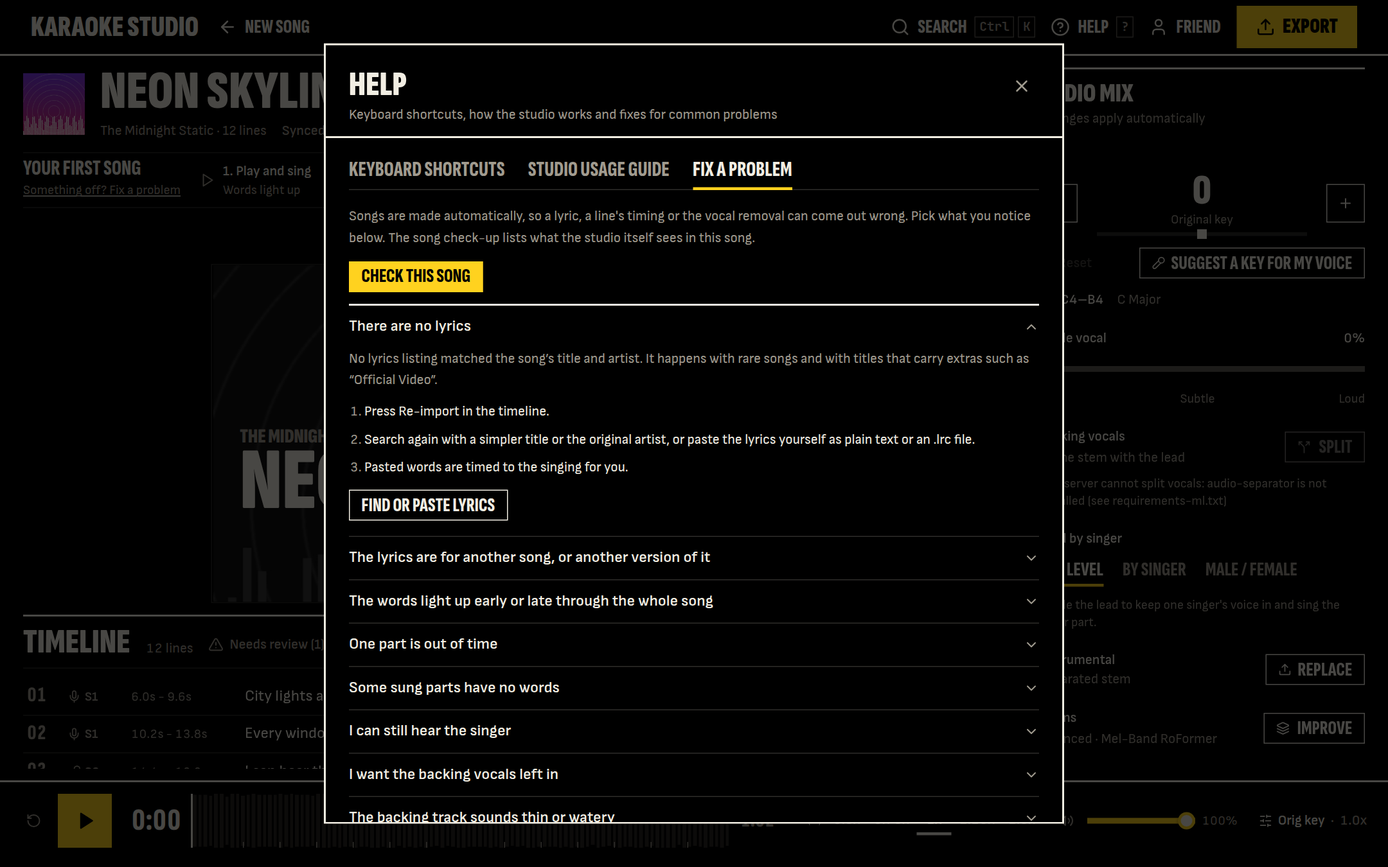
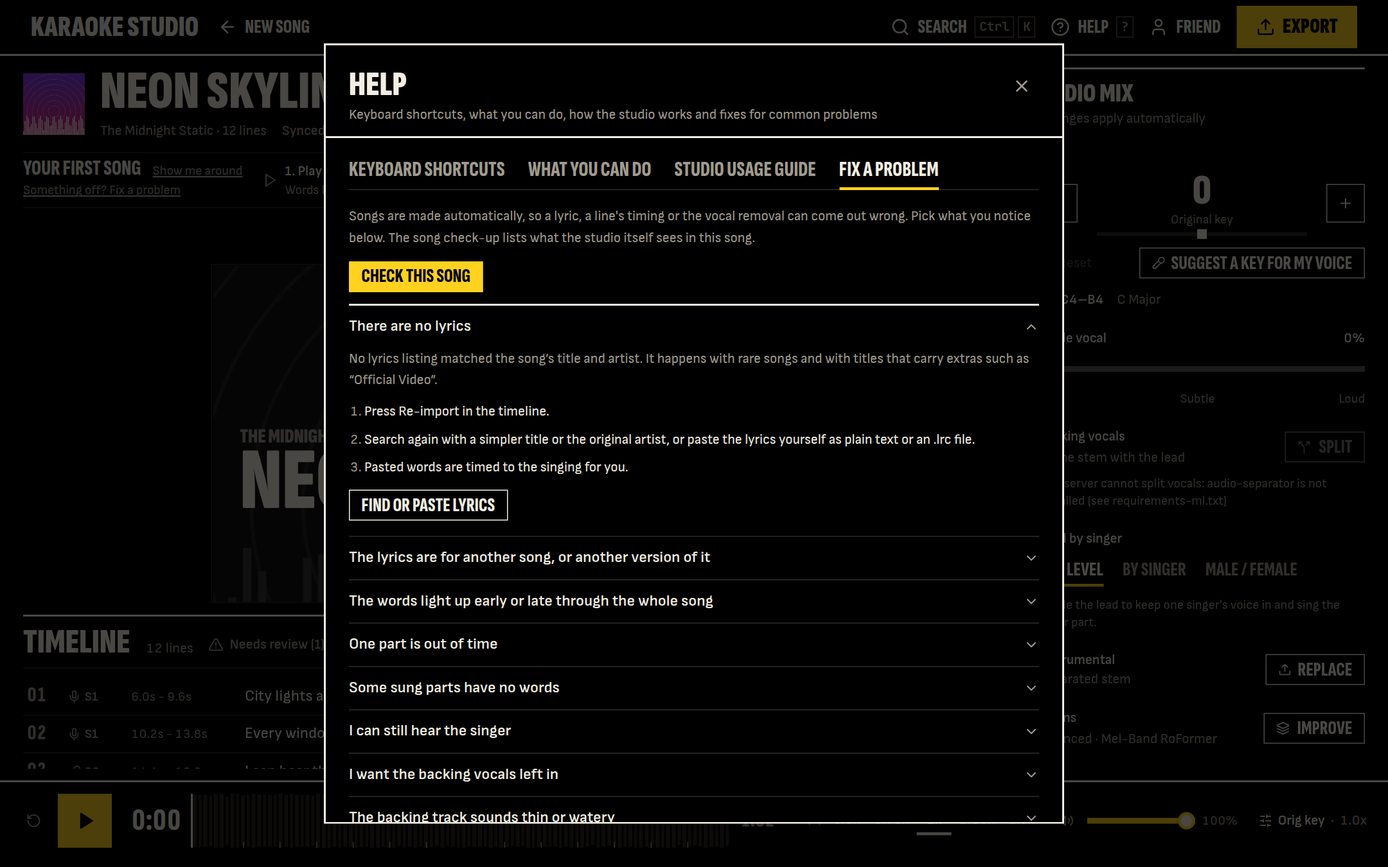
docs: describe the tour and the what-you-can-do list
The README's first-song walkthrough now says how to be shown around and
where the list of easy-to-miss features is, with a capture of each; the
first-song and Help captures are retaken, since the card has a new button
and Help a fourth tab. The architecture notes describe how the guide finds
a control, prepares a stop and draws the pointer, and when it may be a
dialog. The project guide says what to keep in step when a control with a
guide name changes.

Changed region(s): [[0.3722, 0.1867, 0.6824, 0.2178], [0.3412, 0.1244, 0.6204, 0.1556], [0.1241, 0.1867, 0.2481, 0.2489]]

diff --git a/docs/ARCHITECTURE.md b/docs/ARCHITECTURE.md
@@ -345,7 +345,8 @@ Words are spelled for the MMS alphabet by `lyric_tokenize.normalize_for_mms` (nu
 | `useInstallPrompt` + `utils/installPrompt` | install-as-app state: `beforeinstallprompt` is captured from `main.tsx` before React mounts and replayed by the Install button; iOS (including iPadOS) gets `InstallAppDialog` with the Share → Add to Home Screen steps; nothing is offered when running installed (`display-mode: standalone` or `navigator.standalone`); the header button can be hidden for good (`karaoke_install_button_hidden`), the palette entry stays |
 | `useUpdatePrompt` | offers a Reload toast once the server serves a newer build: when the tab becomes visible and every 5 minutes, it compares the hashed entry script in `/` with the one this page loaded |
 | `useFirstSongGuide` | whether the first-song card shows: until this browser hides it (`karaoke_first_song_hint`), skipped where storage is unavailable; Help and the palette can bring it back |
-| `useGuideActions` | carries out a `GuideAction` (`utils/guideActions`) chosen in the song check-up, the first-song card or Help: closes that dialog, switches the phone tab, then opens the tool through its palette command (`runCommand`) or the app's own handler |
+| `useGuideActions` | carries out a `GuideAction` (`utils/guideActions`) chosen in the song check-up, the first-song card or Help: closes that dialog, switches the phone tab, then opens the tool through its palette command (`runCommand`) or the app's own handler; `tour` starts the studio tour |
+| `useGuideCommands` | the guide in the palette: "Show me around" (the tour of the screen that is up), "What you can do" (Help's tab) and the `features` source, which lists "Show me: …" entries for a query and imports `utils/features` when first searched |
 | `useServerVersion` | the version the server runs (`version` from `GET /api/health`, i.e. `git describe`), fetched when the Help dialog first opens and shown in its footer |
 | `useUpdateDrainNotice` | while `GET /api/health` reports `draining` (checked on load, when the tab becomes visible and every minute), a persistent warning toast says new songs, renders and re-made stems are paused and how many jobs the update waits for |
 | `useServerUpdatePrompt` | where the server reports `self_update`, offers an Update now toast when GitHub's `main` is ahead of the running build (`GET /api/health?check_remote=1` on load, when the tab becomes visible at most every 2 minutes, and every 10 minutes); the button posts `{"action": "update"}` to `/api/system/update`, and `useUpdatePrompt` then offers the reload |
@@ -356,7 +357,7 @@ Words are spelled for the MMS alphabet by `lyric_tokenize.normalize_for_mms` (nu
 
 ### 3.4 Command palette
 
-`commandPalette/` holds a registry: components register commands (`useRegisterCommands(scope, commands)`) and searchable sources (songs, lyric lines) while mounted, and the palette reads them when it opens. <kbd>Ctrl</kbd>/<kbd>⌘</kbd>+<kbd>K</kbd> toggles it unless another dialog or the sign-in gate is open. Ranking puts prefix matches first, then word starts, substrings and loose subsequences; results are capped at 50 and recent commands are kept in `karaoke_palette_recent`. Studio commands cover playback, stage, mix (including "Improve stem separation…"), themes, navigation, song actions, and the timeline's lyric tools (save, undo, tap-to-sync, re-align the selected line or all lines, cancel a re-alignment). The context's `runCommand(id)` runs the command a mounted component offers under that id and returns whether there was one; guidance uses it to open the lyric tools, whose dialogs live inside the timeline editor (`lyrics-replace`, `lyrics-offset`, `lyrics-duet`, `lyrics-realign-all`, `lyrics-review-show`, `stems-improve`). The review filter has one id per direction (`lyrics-review-show`, `lyrics-review-all`) so running it by id always means the same thing.
+`commandPalette/` holds a registry: components register commands (`useRegisterCommands(scope, commands)`) and searchable sources (songs, lyric lines) while mounted, and the palette reads them when it opens. <kbd>Ctrl</kbd>/<kbd>⌘</kbd>+<kbd>K</kbd> toggles it unless another dialog or the sign-in gate is open. Ranking puts prefix matches first, then word starts, substrings and loose subsequences; results are capped at 50 and recent commands are kept in `karaoke_palette_recent`. Studio commands cover playback, stage, mix (including "Improve stem separation…"), themes, navigation, song actions, and the timeline's lyric tools (save, undo, tap-to-sync, re-align the selected line or all lines, cancel a re-alignment). The context's `runCommand(id)` runs the command a mounted component offers under that id and returns whether there was one; guidance uses it to open the lyric tools, whose dialogs live inside the timeline editor (`lyrics-replace`, `lyrics-offset`, `lyrics-duet`, `lyrics-realign-all`, `lyrics-review-show`, `stems-improve`). The review filter has one id per direction (`lyrics-review-show`, `lyrics-review-all`) so running it by id always means the same thing. The guide adds `guide-tour` and `help-features`, and a `features` source beside `songs` and `lyric-lines` (sources list nothing until a query is typed).
 
 ### 3.5 Stage
 
@@ -366,16 +367,17 @@ Words are spelled for the MMS alphabet by `lyric_tokenize.normalize_for_mms` (nu
 
 - **Boot shell.** `index.html` carries a small inline stylesheet and, inside `#root`, the top bar and a quiet outline of the page, so something paints as soon as the HTML and stylesheet arrive; React replaces it on mount. The shell's brand name is set in the display face, which starts that font file downloading while the script is still loading.
 - **Fonts** are self-hosted, in three stylesheets written by `scripts/generate-fonts-css.mjs` (`npm run fonts`) from the `@fontsource` packages, whose own CSS names the variable families "Sofia Sans Variable" while the stacks say "Sofia Sans": `src/fonts.css` (the interface's faces, which Marquee uses too; loaded with the first screen), `src/stageFonts.css` (the other looks' faces, imported by `stage/StageFrame` and so loaded with the studio) and `src/stageFonts.ktv.css` (the 118 Japanese slices of KTV's face, imported on demand when that look is on). Vite hashes the files into `/assets`, so they are cached for a year. Each file is fetched only when text in its family and unicode range is shown. Each stage face must be the cut the backend bundles, whose widths both sides measure with. `selfHostedFonts.test.ts` checks that the declared faces match the ones the app and the looks name and that the page loads nothing from another site.
-- **Deferred screens** (`deferredScreens.ts`). The studio workspace, transport dock, export, stem and song check-up dialogs (one chunk, `components/studio/studioBundle.ts`), the help dialog and the command palette are split out of the first-load script. `main.tsx` fetches them once the page is idle; a screen whose chunk has arrived renders synchronously like a normal import, and one still on its way suspends (`StudioSkeleton` for the studio, nothing for dialogs). A failed fetch is retried once; a screen shown again a second or more after its chunk failed fetches it again, so a dropped connection does not leave Help or the palette closed until a reload. If the studio's chunk is still missing (an update replaced the build while the page was open), opening a song reloads the page once (`reloadForMissingChunk`, at most once a minute, recorded in `sessionStorage`); the help and palette chunks never reload, since they open over a studio that may hold unsaved edits. Tests that assert on those screens synchronously call `loadDeferredScreens()` in a `beforeAll`.
+- **Deferred screens** (`deferredScreens.ts`). The studio workspace, transport dock, export, stem and song check-up dialogs (one chunk, `components/studio/studioBundle.ts`), the help dialog, the command palette and the guided tour (`components/guide/GuideTour`) are split out of the first-load script. `main.tsx` fetches them once the page is idle; a screen whose chunk has arrived renders synchronously like a normal import, and one still on its way suspends (`StudioSkeleton` for the studio, nothing for dialogs). A failed fetch is retried once; a screen shown again a second or more after its chunk failed fetches it again, so a dropped connection does not leave Help or the palette closed until a reload. If the studio's chunk is still missing (an update replaced the build while the page was open), opening a song reloads the page once (`reloadForMissingChunk`, at most once a minute, recorded in `sessionStorage`); the help and palette chunks never reload, since they open over a studio that may hold unsaved edits. Tests that assert on those screens synchronously call `loadDeferredScreens()` in a `beforeAll`.
 - **Home screen** (`TrackSearch`). The intake box starts a link to a supported site (a download or a lookup site) at once (`utils/mediaLinks.linkSite`, the backend's host rule over the same `media_sites.json`, both suites running its `host_cases`) and answers a link to any other site with the sites that work (`UNSUPPORTED_LINK_MESSAGE`). Anything else is search words (`useSongSearch.isSearchable`: two characters or more, one in a script outside ASCII): `useSongSearch` sends them to `POST /api/search/songs` 350 ms after the typing stops, or at once on Enter or **Search**, with an `AbortController` per search so only the latest words' answer is shown, and never repeats a search for the same words. `track-search/SongSearchResults` lists the songs under the box: artwork that plays the song's 30-second preview (`useSongPreview`: one clip at a time from an `Audio` object that is never put in the page, since the transport owns the only `<audio>` element; a clip that will not play can be tried again, and being stopped mid-load is not a failure), title, artist, album, year and length (the length is never truncated: it tells versions apart), badges for what kind of recording it is (`versions`) and for explicit lyrics, and **Create Karaoke**, which starts the result's `url` through the same `onSelectTrack` a pasted link uses. A result that carries `project_id` is already in the library: it shows "In your library" or "Being made" and **Open**, which hands the app a card-sized entry to fetch in full. Five songs are listed and the rest on "Show more"; a status line (`role="status"`) says how many songs were found and, when the words were respelled, for which spelling. Under the songs, **Search YouTube uploads** lists `POST /api/search` results for the (respelled) words, for another recording or a song the catalogs do not have; a submit that finds no song searches them by itself. When a response has an empty `sources` (no catalog configured or reachable), typing stops searching, the status says to press Search, and Search lists the YouTube uploads as the results. Arrow keys move from the box into the results and between them, Escape returns to the box and, there, dismisses the results; dismissed results stay dismissed until the words change. The page opens on `track-search/SungHeadline`: the headline is swept from bone to yellow once per page load, word by word (a CSS animation; under reduced motion it stands still, already yellow), on two lines for a first visit and one compact line for a returning visitor. Visitors with no songs of their own also get three "how it works" steps, and the library opens on the Community tab when it has songs and theirs is empty. `karaoke_has_songs` in localStorage remembers a returning visitor so their page does not jump, and hides the pitch on phones for them.
 - **Setlist** (`track-search/ProjectLibrary`) loads `GET /api/projects?summary=1` and lists the songs as numbered rows. A song's number is the order it was made in, so sorting and filtering do not renumber, and a ready song shows only its length; one being made, failed, cancelled or an album says so. Opening a row fetches the whole song (`App.openLibraryProject`), with a spinner on the row meanwhile; the command palette's lyric search still loads the full list when it opens.
 - **Processing.** `ProcessingTips` shows one tip at a time while a song is processed (auto-advancing until the viewer presses Next tip), and `ProcessingExpectations` says under it what to expect: how long, that the page can be left, and that an automatic result sometimes needs a fix. The failed screen explains `project.error` in plain words (`utils/processingErrors.explainProcessingError`: the first matching rule of a short list, else a general answer) and keeps the raw message under "Technical details". **Try again** (and **Start again** on the cancelled screen) posts the song's link (`url`, kept from the start; `utils/processingErrors.retryInput`), else its `track_id` for songs from before links were kept, to `/api/process`, which replaces a failed song; a song from an upload (`local_` id) asks for the file again instead, and a song picked from an album (`album_track`) is started again through `POST …/album/songs`.
 - **Whole albums** (`album/AlbumTrackPicker`, `album/AlbumTrackRow`, `hooks/useAlbumListing`, `utils/albumTracks`). `App` shows the picker for a project at status `album`, in place of the processing screen. It fetches `GET …/album`, says where the song list came from, and lists the songs with their place in the album: a checkbox for each song not made yet, **Open** for a song made or being made, a name field for a picked song with a stand-in name (and **Rename** for any picked song), the album artist as an editable field, **Pick all**, **Make N songs** (`useTrackIntake.handleAlbumSongs`, which opens the first song's progress and says the others are in the library) and **Make it all one song** when `whole_allowed` (`handleAlbumWhole`). The library card of an album carries an **Album** badge and opens the picker again.
-- **Guidance.** Three pieces tell a new user what to do and what to fix, all driven by `GuideAction`s that `useGuideActions` carries out:
-  - *First-song card* (`studio/FirstSongCard`): four steps above the stage (play, check lyrics, set your key, make a video), each a button. A plain `<section>`, never a dialog, so shortcuts keep working. Shown until hidden (`useFirstSongGuide`).
+- **Guidance.** The first four pieces below tell a new user what to do and what to fix, driven by `GuideAction`s that `useGuideActions` carries out; the last, the guide, points at the screen itself:
+  - *First-song card* (`studio/FirstSongCard`): four steps above the stage (play, check lyrics, set your key, make a video), each a button, and "Show me around", which starts the tour. A plain `<section>`, never a dialog, so shortcuts keep working. Shown until hidden (`useFirstSongGuide`).
   - *Song check-up* (`utils/songCheckup` + `studio/SongCheckupDialog`): rows of `fix`, `tip` or `ok` read from what the project already stores: no lines or `lyric_source: "none"`, the timeline's review checks (`collectLineIssues`), `sync_report.mean_confidence` under the low threshold, `uncoveredVocals`, a DSP `fallback_reason`, `separation.fallback_reason` and `requested`, Fast stems when a better preset is available (`useCapabilities`), and `sync_job` / `separation_job` in `error`. `checkupFixCount` (the `fix` rows) is the number in the header and on the card.
-  - *Help* (`HelpModal`): the usage guide opens with the first-song steps, and the "Fix a problem" tab lists `utils/troubleshooting.PROBLEMS` (symptom, cause, steps, actions), with buttons only while a finished song is open. `App` keeps the tab to open (`helpTab`): guidance opens "Fix a problem", the <kbd>?</kbd> key and the header button open the shortcuts. The README's "When results are off" table repeats the list by hand.
+  - *Help* (`HelpModal`): "What you can do" (`help/HelpFeatures`) lists `utils/features.FEATURES` by group, the usage guide opens with the first-song steps, and the "Fix a problem" tab lists `utils/troubleshooting.PROBLEMS` (symptom, cause, steps, actions), with buttons only while a finished song is open. `App` keeps the tab to open (`helpTab`): guidance opens "Fix a problem", the <kbd>?</kbd> key and the header button open the shortcuts. The README's "When results are off" table repeats the list by hand.
   - *Export* (`ExportModal`): before a song's first render, `export/ExportNextSteps` lists render, download and upload; while one runs, a line says the dialog can be closed. After a render, `export/ExportYouTubeKit` ("Upload to YouTube", directly under the video) is five steps around the server's `youtube_package`: start the upload, paste the title, description and tags (copy buttons), and what to check before publishing. It reads whether the description has chapters from its timestamp lines, and says when a 9:16 video becomes a Short (`SHORTS_MAX_SECONDS`, from the rendered format and `project.duration`). Nothing is uploaded from the app.
+  - *The guide* (`components/guide`, a deferred chunk): a tour of the studio (11 stops, one fewer on desktop, where the phone's tab bar is not shown) or of the home screen (5), and "Show me" for one feature. `App` holds only what was asked for (`guide: GuideRequest | null`, a tour or a feature id); `GuideTour` does the rest. For each stop it selects the phone tab the control is on, presses the button that uncovers a collapsed control (`open`, the transport's speed and volume), finds the control by its `data-guide` name (`utils/guideAnchors`: the copy that is shown, and of several lyric lines the one in view), scrolls it clear of the bars that are held over the page at that moment, and measures the part of it that can be seen. `GuidePointer` draws four flat rectangles around that box, a 2 px ring 4 px off it, and a callout placed by `utils/guidePlacement` (under the control, else over or beside it; a band across the edge away from the control below 640 px). A stop whose control is not on the screen is passed over. The words are data: `utils/guideStops` (stops with a title, a body and, for toolbars of icon-only buttons, a legend) and `utils/features` (the features of Help's "What you can do" tab, each with the sentence said while its control is pointed at). A tour is a dialog (`aria-modal`, focus trap, Escape, arrow keys; the control under the ring cannot be pressed; the page does not scroll; a playing song is paused first, since Space is off) and so is only ever opened when asked for: "Show me around" on the first-song card and under "How it works", Help's "Start the tour", the palette. One pointed-at control is a `role="group"` note instead: the control is pressed through the hole, which ends the pointing, as do "Got it", Escape, a press on the dim, focus moving on, or the control scrolling away; the shortcuts stay on. Help lists a feature's "Show me" only on the screen it belongs to, and a control this song or server does not render (vocal splits, the song loop, "Needs review" with nothing to review) says why in place of the button. `tests/guide/guideAnchorsInApp.test.tsx` renders the studio and the home screen and fails when a stop or feature names a control that is not there.
   First-run UI renders in every App-level test, because the test setup clears storage: its controls need names no other studio control has (`studioAccessibleNameUniqueness.test.tsx`), and it must not use `role="dialog"`, which would turn the keyboard shortcuts off (`isModalActive`).
 
 ### 3.7 Installable app

diff --git a/CLAUDE.md b/CLAUDE.md
@@ -60,7 +60,7 @@ modal deploy gpu/modal_app.py           # cloud workers, see below
   6b. Vocal parts: `POST …/vocal-split` (`backend/vocal_split.py`) runs one more RoFormer model over a vocal stem (`separator.split_vocals`, no fallback engine) and keeps its two outputs beside the stems (`services/vocal_parts.py`): `lead_backing` gives `vocals_lead.wav` + `vocals_backing.wav`, `male_female` splits the lead (else the whole vocals) into `vocals_male.wav` + `vocals_female.wav`. Which parts exist is read from the files (`vocal_parts.current_parts`: both present and no older than their source), never from the project; `vocal_splits` on the project is a copy for the studio. Replacing `vocals.wav` deletes the parts. The song's `vocal_levels` (sent with `/mix` and `/render`) say which vocals a mix keeps: `backing`, and the lead `by: "lines"` (`singer1`/`singer2`/`both`, applied during those singers' lyric lines) or `by: "voices"` (`male`/`female`). `services/vocal_mix.plan_mix` decides; `master_audio.make_master_mix` is the one way to make a mix after the intake's first (it calls `audio_mixer.mix_and_shift` unchanged, with a temporary "kept vocals" file as the vocal input when the levels need one, and names that mix `…_<8 hex>.wav`). Lines saved or re-timed under a mix that follows them set `master_stale`, which the studio answers with a new `/mix`.
   6c. Song loop (only with `SONG_LOOP_REMOTE=modal`): `POST …/song-loop` (`backend/song_loop.py`, `song_loop_job`) sends the lyric lines, or a typed scene (`prompt`), to the Modal function `song_loop`, which runs `workers/song_loop_worker.py`: a language model writes one scene from the lyrics, a video model (the request's `model`, else `SONG_LOOP_MODEL`: `wan22`, shown as Best, or `ltx`, Fast; `SONG_LOOP_MODELS` limits which the studio offers, and their names, minutes and notes are data in the worker's `MODELS`) draws a few seconds of it, and FFmpeg crossfades the clip into its own start (`loop_filter`). The job checks the result with ffprobe and keeps it as `output/<id>_loop.mp4`, recorded as `song_loop` on the project (`services/song_loops.py`); a failed run keeps the old loop. It reads nothing the other jobs change, so `background_jobs.conflict_reason` does not know it: it runs beside them, one loop at a time across the server (`SONG_LOOP_SEMAPHORE`). The stage background style `loop` shows it (`StudioWorkspace` passes it to the stage as an uploaded video; a song without one shows cover art), and a render with `background_style: "loop"` gets the file as its custom background in `render_worker`. The control is `components/look/SongLoopControl`, hidden where the server has no `SONG_LOOP_REMOTE` and the song has no loop (`utils/songLoop.showsSongLoop`).
   7. Export: `/render` → `render_worker` mixes at final quality (Rubber Band), writes the `.ass` file in the song's look (`ass_generator.py` → `ass_style.resolve_look_style` → `ass_look.generate_look_ass`) and renders with FFmpeg + libass (`video_renderer.py`, bundled stage fonts in `backend/assets/fonts`), locally or on Modal. LRC, ASS, chord sheet, stems and the YouTube kit are plain GET routes.
-- **Frontend** (`frontend/src`): React 18, strict TypeScript, Vite, Tailwind; no router or state library. `App.tsx` switches between the library (`TrackSearch`), `ProcessingView` and `studio/StudioWorkspace` (stage, timeline, inspector); the intake box searches typed words as the typing pauses (`hooks/useSongSearch`) and lists the songs under it with a preview of each (`track-search/SongSearchResults`, `hooks/useSongPreview`), with YouTube uploads on request; `transport/TransportDock` owns the only `<audio>` element. Behaviour lives in `hooks/` (polling, audio, mix, editor history, quality jobs, command palette), pure helpers in `utils/`, design-system primitives in `components/ui/`, the stage looks in `theme/`, and the app's one look as CSS variables in `index.css` (see **The look** under Conventions). The Audio mix panel (`components/AudioControls`) holds the key, the guide vocal, the vocal parts (`audio/VocalPartsControl` with `audio/VocalSplitControl`; levels in `useMixController`, helpers in `utils/vocalLevels`) and the stems' quality. `api.ts` (`apiFetch`) adds the auth headers. `types.ts` mirrors `backend/schemas.py` by hand. `useProjectHistory` keeps `?project=` in the address bar and gives each opened song a history entry, so Back returns to the library. Guidance for new users: the first-song card (`studio/FirstSongCard`, `useFirstSongGuide`), the song check-up (`utils/songCheckup`, `studio/SongCheckupDialog`, opened from the song header) and Help's "Fix a problem" tab (`utils/troubleshooting`); their buttons are `GuideAction`s (`utils/guideActions`) that `useGuideActions` carries out, opening the timeline's tools through the palette's `runCommand(id)`; the failed screen's plain-language reasons are in `utils/processingErrors`; see `docs/ARCHITECTURE.md` §3.6. First load: `index.html` paints a boot shell, fonts are self-hosted (`src/fonts.css`), and the studio, export/help dialogs and command palette are deferred chunks (`deferredScreens.ts`) that `main.tsx` preloads when idle; the home screen opens on a headline that is sung once (`track-search/SungHeadline`) and the setlist loads card-sized entries (`GET /api/projects?summary=1`), fetching a song in full when it is opened; see `docs/ARCHITECTURE.md` §3.6. Installable-app pieces: `public/` (`manifest.json` with a share target and app shortcuts, `sw.js`, `offline.html`, icons, screenshots), `utils/installPrompt` + `useInstallPrompt` + `InstallAppDialog`, `utils/sharedLink`, `utils/appShortcut` (`/?shortcut=new|upload|resume`), `useScreenWakeLock` (screen stays on while playing), and `utils/serviceWorker`. Android paints the bar under the gesture pill from the manifest's `theme_color`, not the page, so the manifest, `index.html` and the `:root` tokens carry the same black (`tokenParity.test.ts`); see `docs/ARCHITECTURE.md` §3.7.
+- **Frontend** (`frontend/src`): React 18, strict TypeScript, Vite, Tailwind; no router or state library. `App.tsx` switches between the library (`TrackSearch`), `ProcessingView` and `studio/StudioWorkspace` (stage, timeline, inspector); the intake box searches typed words as the typing pauses (`hooks/useSongSearch`) and lists the songs under it with a preview of each (`track-search/SongSearchResults`, `hooks/useSongPreview`), with YouTube uploads on request; `transport/TransportDock` owns the only `<audio>` element. Behaviour lives in `hooks/` (polling, audio, mix, editor history, quality jobs, command palette), pure helpers in `utils/`, design-system primitives in `components/ui/`, the stage looks in `theme/`, and the app's one look as CSS variables in `index.css` (see **The look** under Conventions). The Audio mix panel (`components/AudioControls`) holds the key, the guide vocal, the vocal parts (`audio/VocalPartsControl` with `audio/VocalSplitControl`; levels in `useMixController`, helpers in `utils/vocalLevels`) and the stems' quality. `api.ts` (`apiFetch`) adds the auth headers. `types.ts` mirrors `backend/schemas.py` by hand. `useProjectHistory` keeps `?project=` in the address bar and gives each opened song a history entry, so Back returns to the library. Guidance for new users: the first-song card (`studio/FirstSongCard`, `useFirstSongGuide`), the song check-up (`utils/songCheckup`, `studio/SongCheckupDialog`, opened from the song header) and Help's "Fix a problem" tab (`utils/troubleshooting`); their buttons are `GuideAction`s (`utils/guideActions`) that `useGuideActions` carries out, opening the timeline's tools through the palette's `runCommand(id)`; the failed screen's plain-language reasons are in `utils/processingErrors`; the guide (`components/guide`, a deferred chunk) points at the screen itself: a tour of the studio or the home screen (`utils/guideStops`) and "Show me" for each feature of Help's "What you can do" tab (`utils/features`, `help/HelpFeatures`), finding controls by their `data-guide` attribute (`utils/guideAnchors`) and offered from the first-song card, "How it works", Help and the palette (`useGuideCommands`); see `docs/ARCHITECTURE.md` §3.6. First load: `index.html` paints a boot shell, fonts are self-hosted (`src/fonts.css`), and the studio, export/help dialogs and command palette are deferred chunks (`deferredScreens.ts`) that `main.tsx` preloads when idle; the home screen opens on a headline that is sung once (`track-search/SungHeadline`) and the setlist loads card-sized entries (`GET /api/projects?summary=1`), fetching a song in full when it is opened; see `docs/ARCHITECTURE.md` §3.6. Installable-app pieces: `public/` (`manifest.json` with a share target and app shortcuts, `sw.js`, `offline.html`, icons, screenshots), `utils/installPrompt` + `useInstallPrompt` + `InstallAppDialog`, `utils/sharedLink`, `utils/appShortcut` (`/?shortcut=new|upload|resume`), `useScreenWakeLock` (screen stays on while playing), and `utils/serviceWorker`. Android paints the bar under the gesture pill from the manifest's `theme_color`, not the page, so the manifest, `index.html` and the `:root` tokens carry the same black (`tokenParity.test.ts`); see `docs/ARCHITECTURE.md` §3.7.
 
 ## Cloud offload (Modal)
 
@@ -100,7 +100,8 @@ modal deploy gpu/modal_app.py           # cloud workers, see below
 - Never put `overscroll-behavior: none` or `contain` on `body`: `html` and `body` both set `overflow-x: hidden`, so `body` is a scroll container that never scrolls, and blocking its overscroll kills touch scrolling on phones. Put it on `html` (`standaloneScrollGuard.test.ts` checks).
 - Fonts: the page loads nothing from other sites. An interface font needs its `@fontsource` package, an entry in `frontend/scripts/generate-fonts-css.mjs` and `npm run fonts` (`src/fonts.css`). A stage look's font needs that (in `src/stageFonts.css`) and the same cut as a static TTF with its OFL text in `backend/assets/fonts` and `backend/assets/licenses`, an entry in `backend/tools/font_metrics.py`, `python -m backend.tools.font_metrics`, then `python -m backend.tools.stage_cases`, and a redeploy of the Modal app (until then cloud renders are refused and run locally). `selfHostedFonts.test.ts` and `looks/test_font_metrics.py` fail when the sheets, the table and the files disagree. Never import a `@fontsource-variable` package's CSS directly: it names the family "Sofia Sans Variable", which no stack uses.
 - First-run UI (the first-song card) renders in every App-level test, because `tests/setup.ts` clears storage after each test: give its controls names no other studio control has (`studioAccessibleNameUniqueness.test.tsx`), keep it out of non-wrapping flex rows (the overflow checks estimate a button's width from all its text, `sr-only` included), and never give in-page guidance `role="dialog"`, which turns the keyboard shortcuts off (`isModalActive`). `LyricTimelineEditor.tsx` has a 430-line limit enforced by tests: new timeline UI goes in a child component.
-- Guidance copy is in two places kept in step by hand: `frontend/src/utils/troubleshooting.ts` (Help's "Fix a problem") and the README's "When results are off" table.
+- The guide (`components/guide`): a tour may be a dialog because it only ever opens when asked for; anything shown unasked, and the note that points at one control ("Show me"), may not. A stop finds its control by a `data-guide` name, so renaming or removing a control that has one means changing `utils/guideStops.ts` or `utils/features.ts` too (`tests/guide/guideAnchorsInApp.test.tsx` fails otherwise), and a control that is not on every server or song is marked `optional` with a `missing` sentence. jsdom lays nothing out, so placement is tested as sums (`utils/guidePlacement`) and anything about where the ring lands needs a real browser. `GuideTour`'s effects press buttons and pause the song: keep each safe to run twice (React's strict mode does, in development).
+- Guidance copy is in two places kept in step by hand: `frontend/src/utils/troubleshooting.ts` (Help's "Fix a problem") and the README's "When results are off" table. The tour's stops and the features of "What you can do" (`utils/guideStops.ts`, `utils/features.ts`) are written once, but they describe controls in words: change them when a control's name or what it does changes.
 - Deferred screens: components imported through `deferredScreens.ts` render asynchronously the first time in a test. A test that opens the studio, a dialog or the palette and asserts synchronously needs `beforeAll(() => loadDeferredScreens())`. Do not import them in `tests/setup.ts` (modules loaded there escape `vi.mock`).
 - The manifest's icons and screenshots are committed PNGs in `frontend/public`, as is `og-image.png` (the link preview, a 1200×630 capture of the first-visit home screen). Regenerate them (from `icon.svg` / `icon-maskable.svg`, and a `seed_demo` library for screenshots) when the icon or the look changes; `tests/pwa/pwaManifestInstall.test.ts` checks their sizes against the manifest. The app shortcuts' icons (`frontend/public/shortcuts/*.png`) are rendered from the SVGs beside them at 96 and 192 px; `tests/pwa/appShortcuts.test.tsx` checks them.
 - Changing what the mixer produces: bump `MIX_CACHE_VERSION` in `backend/master_audio.py` so cached mixes and older renders are rebuilt. Changing what the kept vocals of the same levels and lines sound like (the line gate's margins or fades, how parts are summed): bump `VOCAL_MIX_VERSION` in `services/vocal_mix.py`, which renames those mixes.

diff --git a/README.md b/README.md
@@ -27,10 +27,13 @@ Local-first web app that turns any song into karaoke: it splits the vocals from 
 | ![Phone timeline](docs/screenshots/phone-timeline.png) <br> Phone: timeline | ![First-song steps](docs/screenshots/first-song.png) <br> First-song steps |
 | ![Song check-up](docs/screenshots/song-checkup.png) <br> Song check-up | ![Fix a problem in Help](docs/screenshots/help-fix-a-problem.png) <br> Help: Fix a problem |
 | ![A failed song](docs/screenshots/processing-failed.png) <br> A song that failed | ![Upload to YouTube steps](docs/screenshots/youtube-upload.png) <br> Export: Upload to YouTube |
+| ![The studio tour](docs/screenshots/tour.png) <br> The tour: a toolbar's icons, named | ![What you can do in Help](docs/screenshots/what-you-can-do.png) <br> Help: What you can do |
 
 ## Using Karaoke Studio
 
 A first song, start to finish. The studio shows the same steps on a card the first time you open a finished song, and **Help** (<kbd>?</kbd>) has them under **Studio Usage Guide**.
+
+To be shown rather than told, press **Show me around**: on that card, under "How it works" on the home screen, or in the command palette. It starts a tour that rings one part of the screen at a time and says what it does, naming the icon-only buttons on the way; on a phone it switches to the tab each part is on. Help's **What you can do** tab lists the features that are easy to miss (finding your key, re-timing one line, splitting a line, keeping a duet partner in, a moving background and more), and **Show me** beside each one points at its control.
 
 1. **Add a song.** Type its title, its artist or both and pick it from the songs listed under the box (small typos are fine, and the artwork plays a 30-second preview). Or paste a song link (YouTube, SoundCloud, Bandcamp, Vimeo, the Internet Archive, Spotify, Apple Music, TIDAL or Deezer), or switch to **Local Audio File** and upload one. **Advanced options** holds the stem quality (Fast, Balanced, Best) and a box for your own lyrics.
 2. **Wait a few minutes.** The screen shows the stage it is on and a time estimate. You can leave: the song keeps processing and waits in your library. Best quality on a CPU, and a server's first Balanced or Best song (it downloads its model once), take longer.
